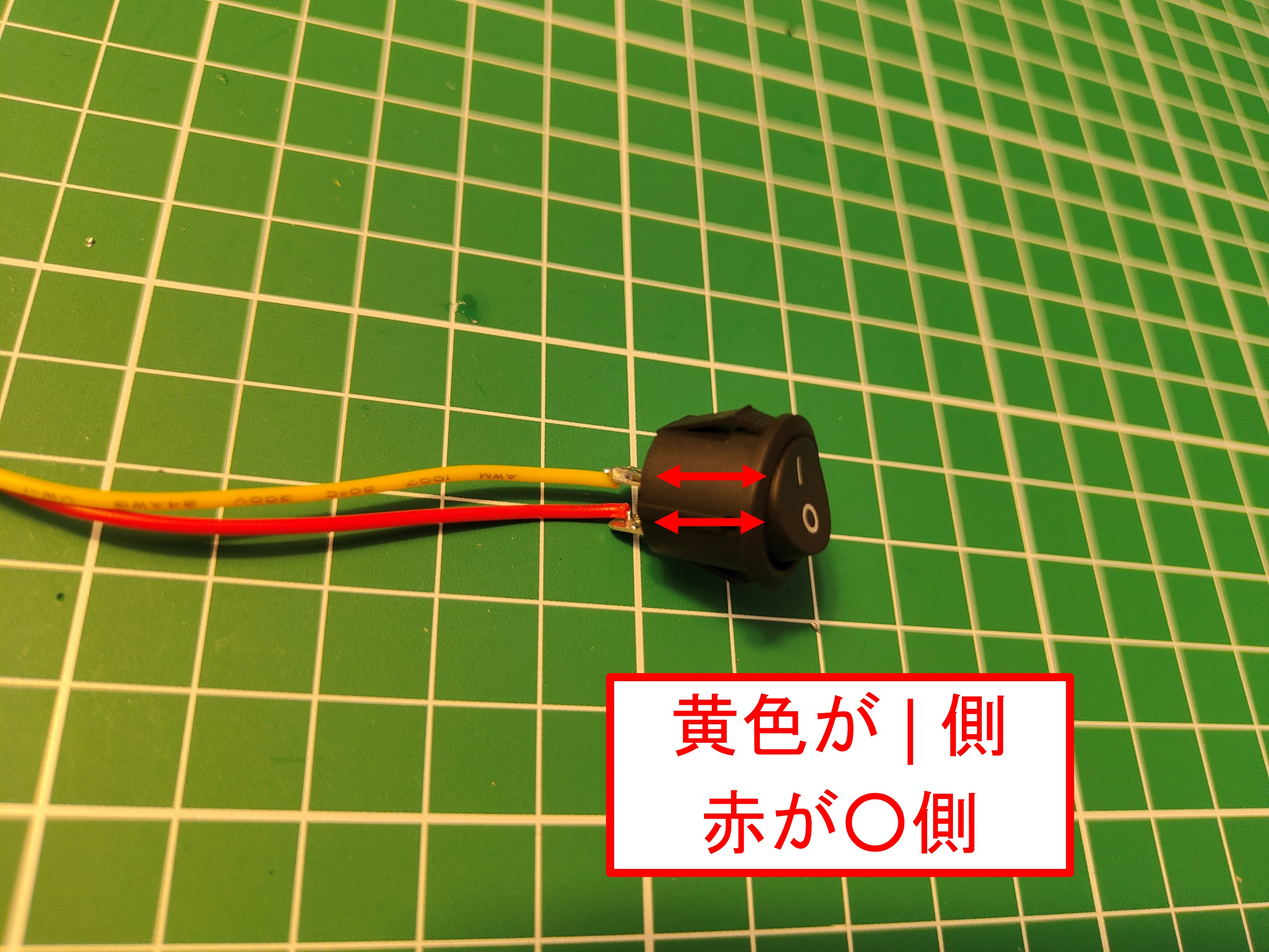
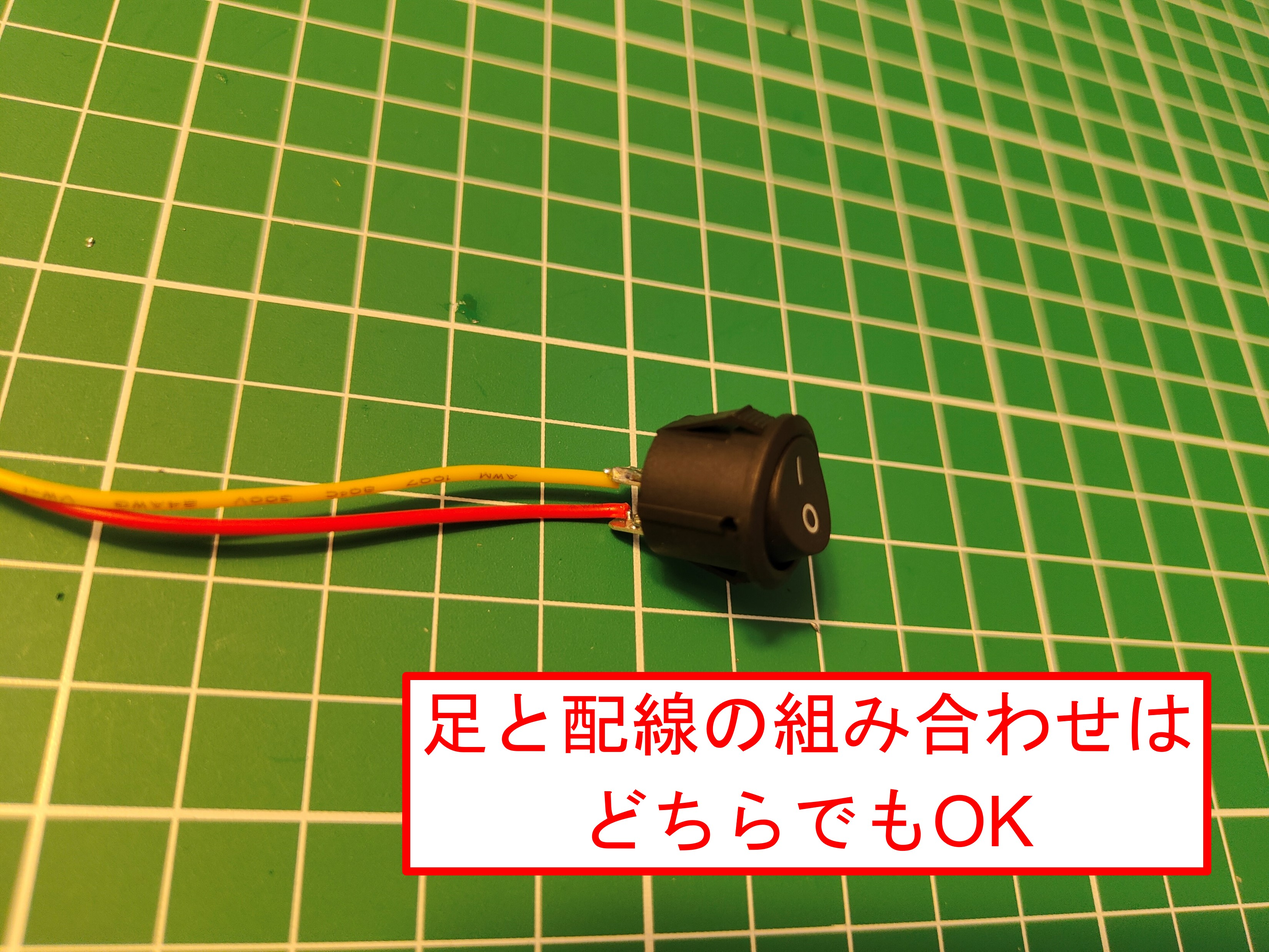
Update body switch pair

Changed region(s): [[0.3121, 0.6844, 0.9676, 0.9333], [0.4994, 0.4667, 0.593, 0.56]]

diff --git a/source/assembly/assembly_hard/assembly_body.rst b/source/assembly/assembly_hard/assembly_body.rst
@@ -167,9 +167,7 @@
     :width: 300px
 
 2. `(35) ロッカスイッチ` の端子に `(34) XHコネクタ付ケーブル 3P` の赤、黃の線をはんだ付けする。
-
-| **黃はスイッチのON側端子( | マーク側)**
-| **赤はスイッチのOFF側端子(○マーク側)**
+| (どちらの足にどちらの色をはんだ付けしても問題ない。)
 
 .. image:: ../../images/assembly/body/body6-2.jpg
     :width: 300px
